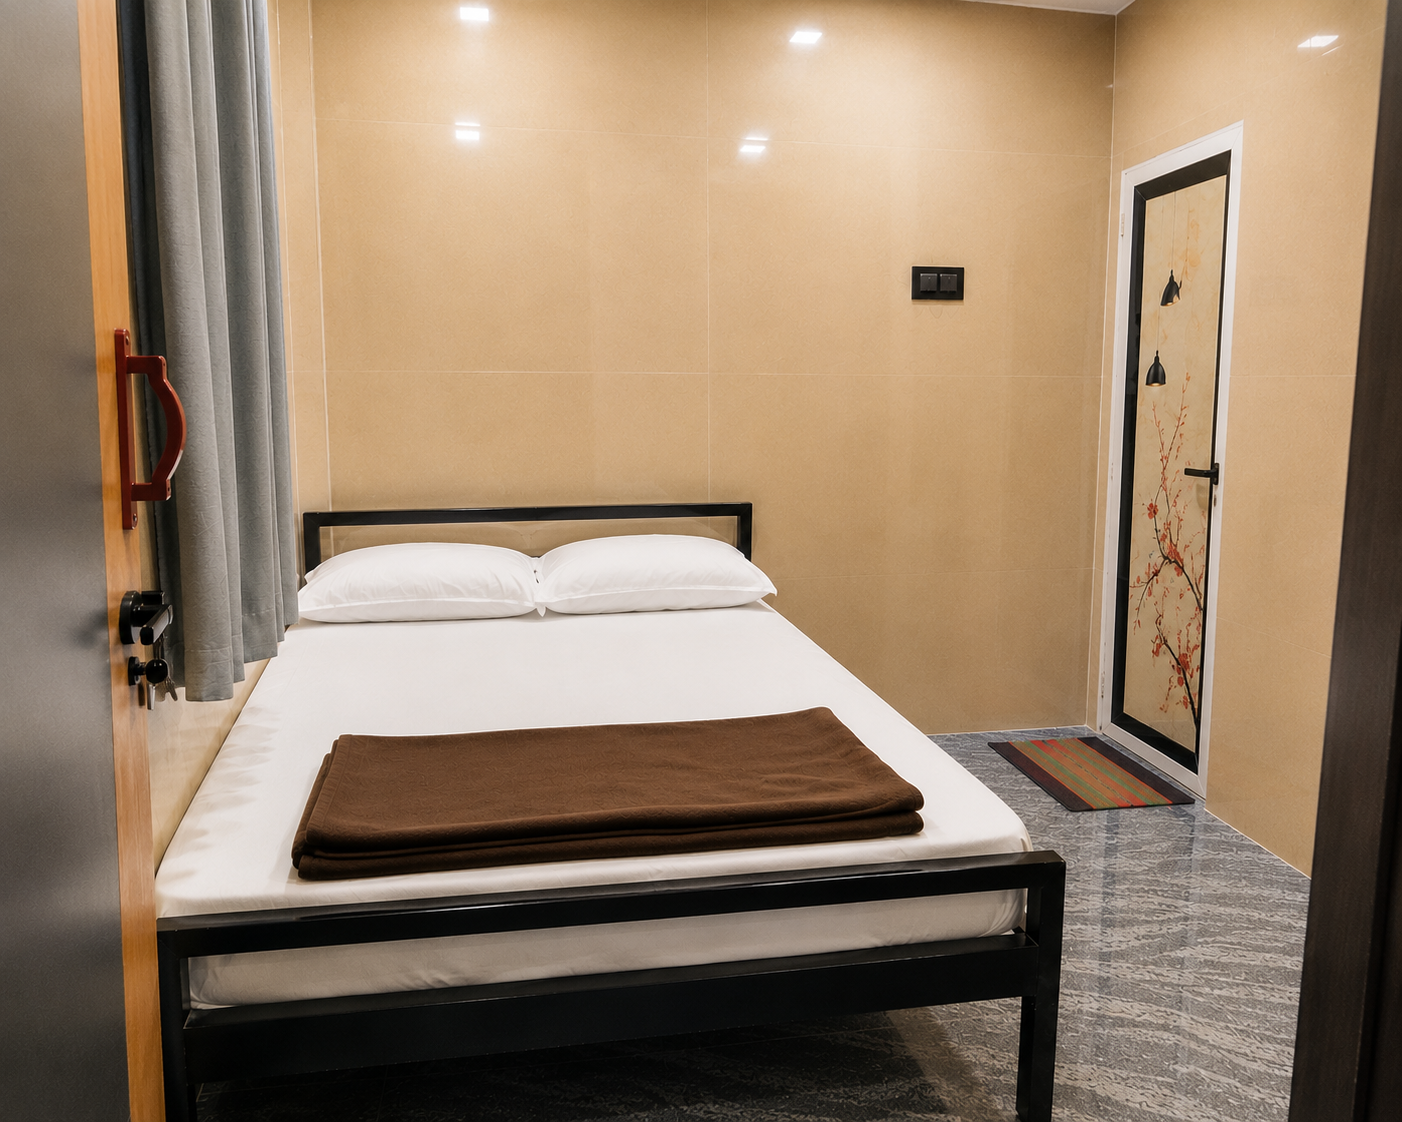
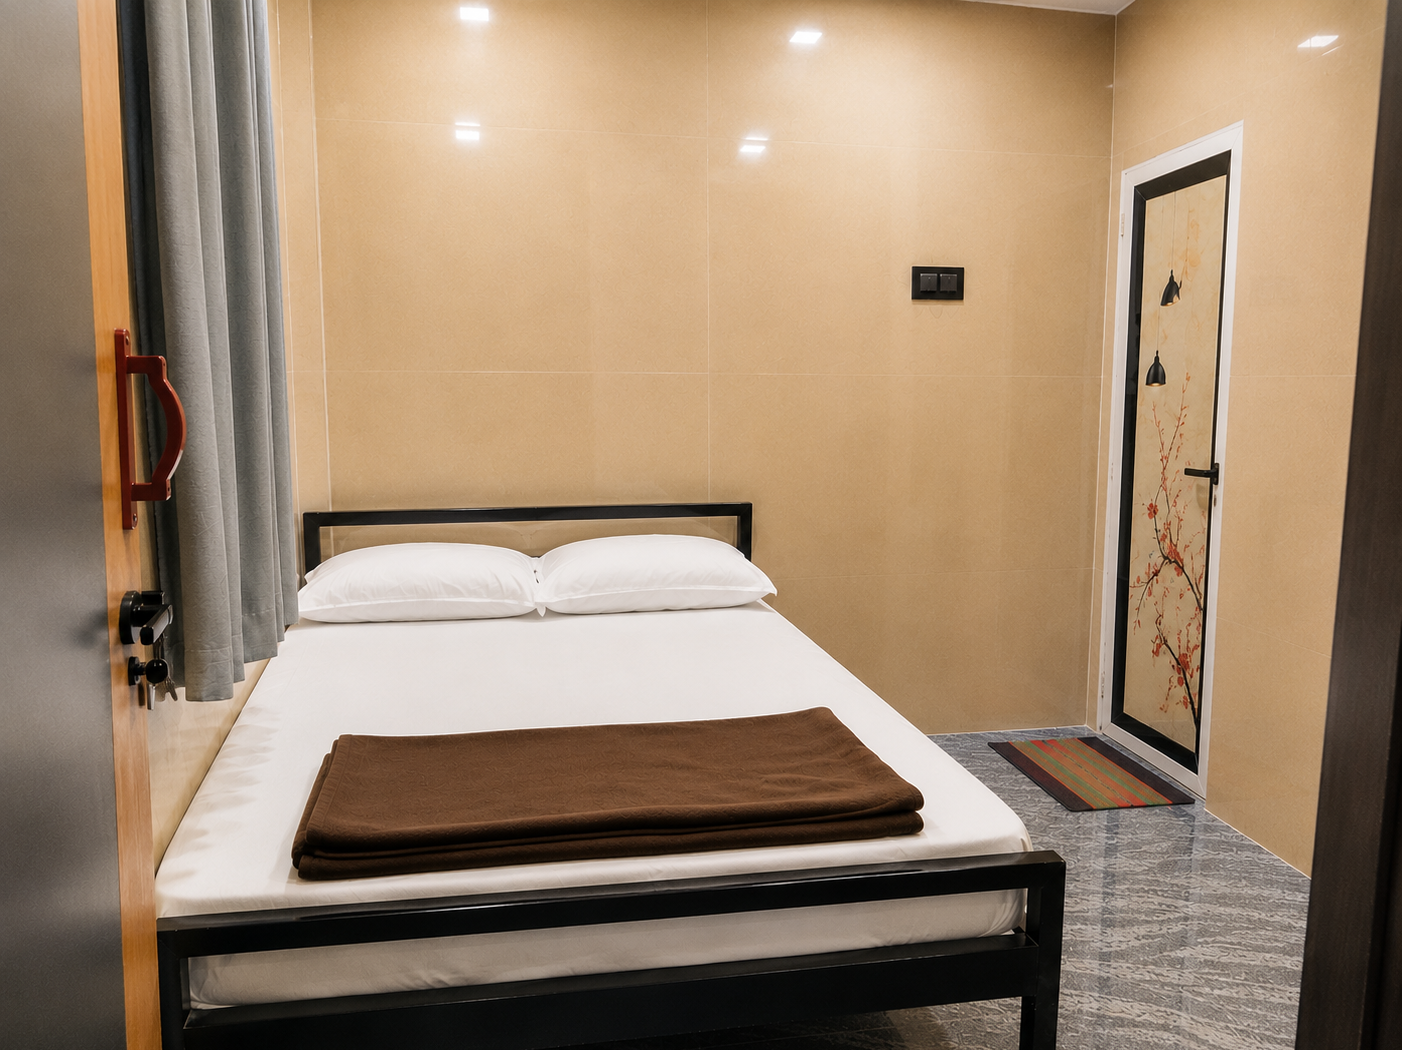
Clean UI

diff --git a/client/components/sections/RoomsSection.tsx b/client/components/sections/RoomsSection.tsx
@@ -1,3 +1,4 @@
+
 import { Link } from "react-router-dom";
 import { Button } from "@/components/ui/button";
 
@@ -22,87 +23,112 @@ interface RoomsSectionProps {
   onRoomSelect?: (roomId: number) => void;
 }
 
-
 const RoomsSection = ({
   rooms,
-  buttonText,
-  sectionId="rooms",
+  buttonText = "View Room",
+  sectionId = "rooms",
   title = "Accommodation Options",
   description = "Choose from budget-friendly dormitory rooms or comfortable family and double rooms near Ramanathaswamy Temple and Pamban Bridge.",
   onRoomSelect,
 }: RoomsSectionProps) => {
   return (
-    <section id={sectionId} className="py-20 px-4 bg-white">
-      <div className="max-w-6xl mx-auto">
+    <section id={sectionId} className="bg-gray-100 px-4 py-20">
+      <div className="mx-auto max-w-6xl">
 
-        <h2 className="text-4xl md:text-5xl font-bold text-center text-primary mb-4">
-          {title}
-        </h2>
+        {/* Section Header */}
+        <div className="mb-14 text-center">
+          <h2 className="mb-4 text-3xl font-bold text-primary md:text-4xl">
+            {title}
+          </h2>
 
-        <div className="w-20 h-1 bg-accent mx-auto rounded-full mb-6" />
+          <div className="mx-auto mb-6 h-1 w-20 rounded-full bg-accent" />
 
-        <p className="text-center text-gray-600 mb-16 max-w-2xl mx-auto">
-          {description}
-        </p>
+          <p className="mx-auto max-w-2xl text-sm leading-7 text-gray-600 md:text-base">
+            {description}
+          </p>
+        </div>
 
-        <div className="grid md:grid-cols-3 gap-8">
+        {/* Rooms Grid */}
+        <div className="grid grid-cols-1 items-stretch gap-8 md:grid-cols-2">
+
           {rooms.map((room) => (
             <div
               key={room.id}
-              className="card-hover rounded-lg overflow-hidden shadow-md border border-gray-100 bg-white flex flex-col  h-full"            >
-              <div className="relative h-48 overflow-hidden">
+              className="card-hover flex h-full flex-col overflow-hidden rounded-xl border border-gray-100 bg-white shadow-md"
+            >
+              {/* Room Image */}
+              <div className="h-55 w-full shrink-0 overflow-hidden">
                 <img
                   src={room.image}
                   alt={room.name}
                   loading="lazy"
                   decoding="async"
-                  className="w-full h-full max-w-full object-cover hover:scale-105 transition-transform duration-300"
+                  className="h-45 w-full object-cover border rounded-xl transition-transform duration-300 hover:scale-105"
                 />
               </div>
 
-              <div className="p-6 flex flex-col  h-full">
-                <h3 className="text-2xl font-bold text-primary mb-2">
-                  {room.name}
-                </h3>
+              {/* Room Content */}
+              <div className="flex flex-1 flex-col p-6">
 
-                <p className="text-gray-600 font-medium text-sm mb-3">
-                  {room.capacity}
-                </p>
+                {/* Room Details */}
+                <div>
+                  <h3 className="mb-2 text-xl font-bold text-primary md:text-2xl">
+                    {room.name}
+                  </h3>
 
-                <p className="mb-4">
-                  <span className="text-2xl font-bold text-accent">
-                    {room.price}
-                  </span>{" "}
-                  <span className="text-sm font-normal text-gray-600">
-                    {room.priceType}
-                    {room.priceTypeNote
-                      ? ` (${room.priceTypeNote})`
-                      : ""}
-                  </span>
-                </p>
+                  <p className="mb-4 text-sm font-medium text-gray-600">
+                    {room.capacity}
+                  </p>
 
-                <ul className="space-y-2 mb-6">
-                  {room.features.map((feature, index) => (
-                    <li
-                      key={index}
-                      className="flex items-start gap-2 text-gray-700"
+                  {/* Price */}
+                  <div className="mb-5 flex flex-wrap items-baseline gap-2">
+                    <span className="text-2xl font-bold text-accent">
+                      {room.price}
+                    </span>
+
+                    <span className="text-sm text-gray-600">
+                      {room.priceType}
+                      {room.priceTypeNote
+                        ? ` (${room.priceTypeNote})`
+                        : ""}
+                    </span>
+                  </div>
+
+                  {/* Features */}
+                  <ul className="space-y-3">
+                    {room.features.map((feature, index) => (
+                      <li
+                        key={`${room.id}-${index}`}
+                        className="flex items-start gap-3 text-sm leading-6 text-gray-700"
+                      >
+                        <span className="shrink-0 font-bold text-accent">
+                          ✓
+                        </span>
+                        <span>{feature}</span>
+                      </li>
+                    ))}
+                  </ul>
+                </div>
+
+                {/* Action Button */}
+                <div className="mt-auto pt-6">
+                  <Button
+                    asChild
+                    className="w-full bg-primary hover:bg-primary/90"
+                  >
+                    <Link
+                      to={room.route}
+                      onClick={() => onRoomSelect?.(room.id)}
                     >
-                      <span className="text-accent">✓</span>
-                      {feature}
-                    </li>
-                  ))}
-                </ul>
-
-                <Link to={room.route} className=" mt-auto block">
-                  <Button className="w-full  bg-primary  hover:bg-primary/90">
-                    {buttonText}
+                      {buttonText}
+                    </Link>
                   </Button>
-                </Link>
+                </div>
 
-                
               </div>
             </div>
           ))}
+
         </div>
       </div>
     </section>

diff --git a/client/components/sections/MultiBlock.tsx b/client/components/sections/MultiBlock.tsx
@@ -1,0 +1,88 @@
+
+import React from "react";
+
+interface CardData {
+  id: string | number;
+  title: string;
+  description: string;
+  icon?: React.ReactNode;
+}
+
+interface MultiBlockProps {
+  quote?: string;
+  title: string;
+  description: string;
+  cardsData: CardData[];
+}
+
+interface CardBlockProps {
+  title: string;
+  description: string;
+  icon?: React.ReactNode;
+}
+
+function MultiBlock({
+  quote,
+  title,
+  description,
+  cardsData,
+}: MultiBlockProps) {
+  return (
+    <section className="w-full bg-[#f1ede3] px-6 py-12 md:px-12 lg:px-16">
+      <div className="mx-auto max-w-7xl">
+
+        {quote && (
+          <p className="mb-3 text-xs uppercase tracking-wider text-[#a58b65]">
+            {quote}
+          </p>
+        )}
+
+        <h2 className="mb-3 max-w-2xl text-2xl text-[#183b50] md:text-3xl">
+          {title}
+        </h2>
+
+        <p className="mb-8 max-w-xl text-sm leading-relaxed text-gray-600">
+          {description}
+        </p>
+
+        <div className="grid grid-cols-1 gap-3 sm:grid-cols-2 lg:grid-cols-3">
+          {cardsData.map((data) => (
+            <CardBlock
+              key={data.id}
+              title={data.title}
+              description={data.description}
+              icon={data.icon}
+            />
+          ))}
+        </div>
+
+      </div>
+    </section>
+  );
+}
+
+function CardBlock({
+  title,
+  description,
+  icon,
+}: CardBlockProps) {
+  return (
+    <div className="flex flex-col items-start gap-3 rounded-lg border border-[#e9e3d8] bg-white p-5 shadow-sm transition-shadow duration-300 hover:shadow-md">
+      {icon && (
+        <div className="text-[#a58b65]">
+          {icon}
+        </div>
+      )}
+
+      <h3 className="text-base text-[#183b50]">
+        {title}
+      </h3>
+
+      <p className="text-xs leading-relaxed text-gray-500">
+        {description}
+      </p>
+    </div>
+  );
+}
+
+export { MultiBlock, CardBlock };

diff --git a/client/App.tsx b/client/App.tsx
@@ -11,6 +11,8 @@ import NotFound from "./pages/NotFound";
 import RoomPage from "./pages/RoomPage";
 import { ScrollToTop } from "./components/ScrollToTop";
 import BlogsPage from "./pages/BlogsPage";
+import HomeStayPage from "./pages/HomeStayPage";
+import ResortPage from "./pages/ResortPage";
 
 const queryClient = new QueryClient();
 
@@ -25,6 +27,8 @@ const App = () => (
           <Route path="/" element={<Index />} />
           <Route path="/rooms/:slug" element={<RoomPage />} />
           <Route path="/blogs/:slug" element={<BlogsPage />} />
+          <Route path="/homestay" element={<HomeStayPage />} />
+          <Route path="/resort" element={<ResortPage />} />
           {/* ADD ALL CUSTOM ROUTES ABOVE THE CATCH-ALL "*" ROUTE */}
           <Route path="*" element={<NotFound />} />
         </Routes>

diff --git a/client/pages/HomeStayPage.tsx b/client/pages/HomeStayPage.tsx
@@ -1,0 +1,9 @@
+import React from 'react'
+
+function HomeStayPage() {
+  return (
+    <div>HomeStayPage</div>
+  )
+}
+
+export default HomeStayPage

diff --git a/client/pages/ResortPage.tsx b/client/pages/ResortPage.tsx
@@ -1,0 +1,9 @@
+import React from 'react'
+
+function ResortPage() {
+  return (
+    <div>ResortPage</div>
+  )
+}
+
+export default ResortPage
